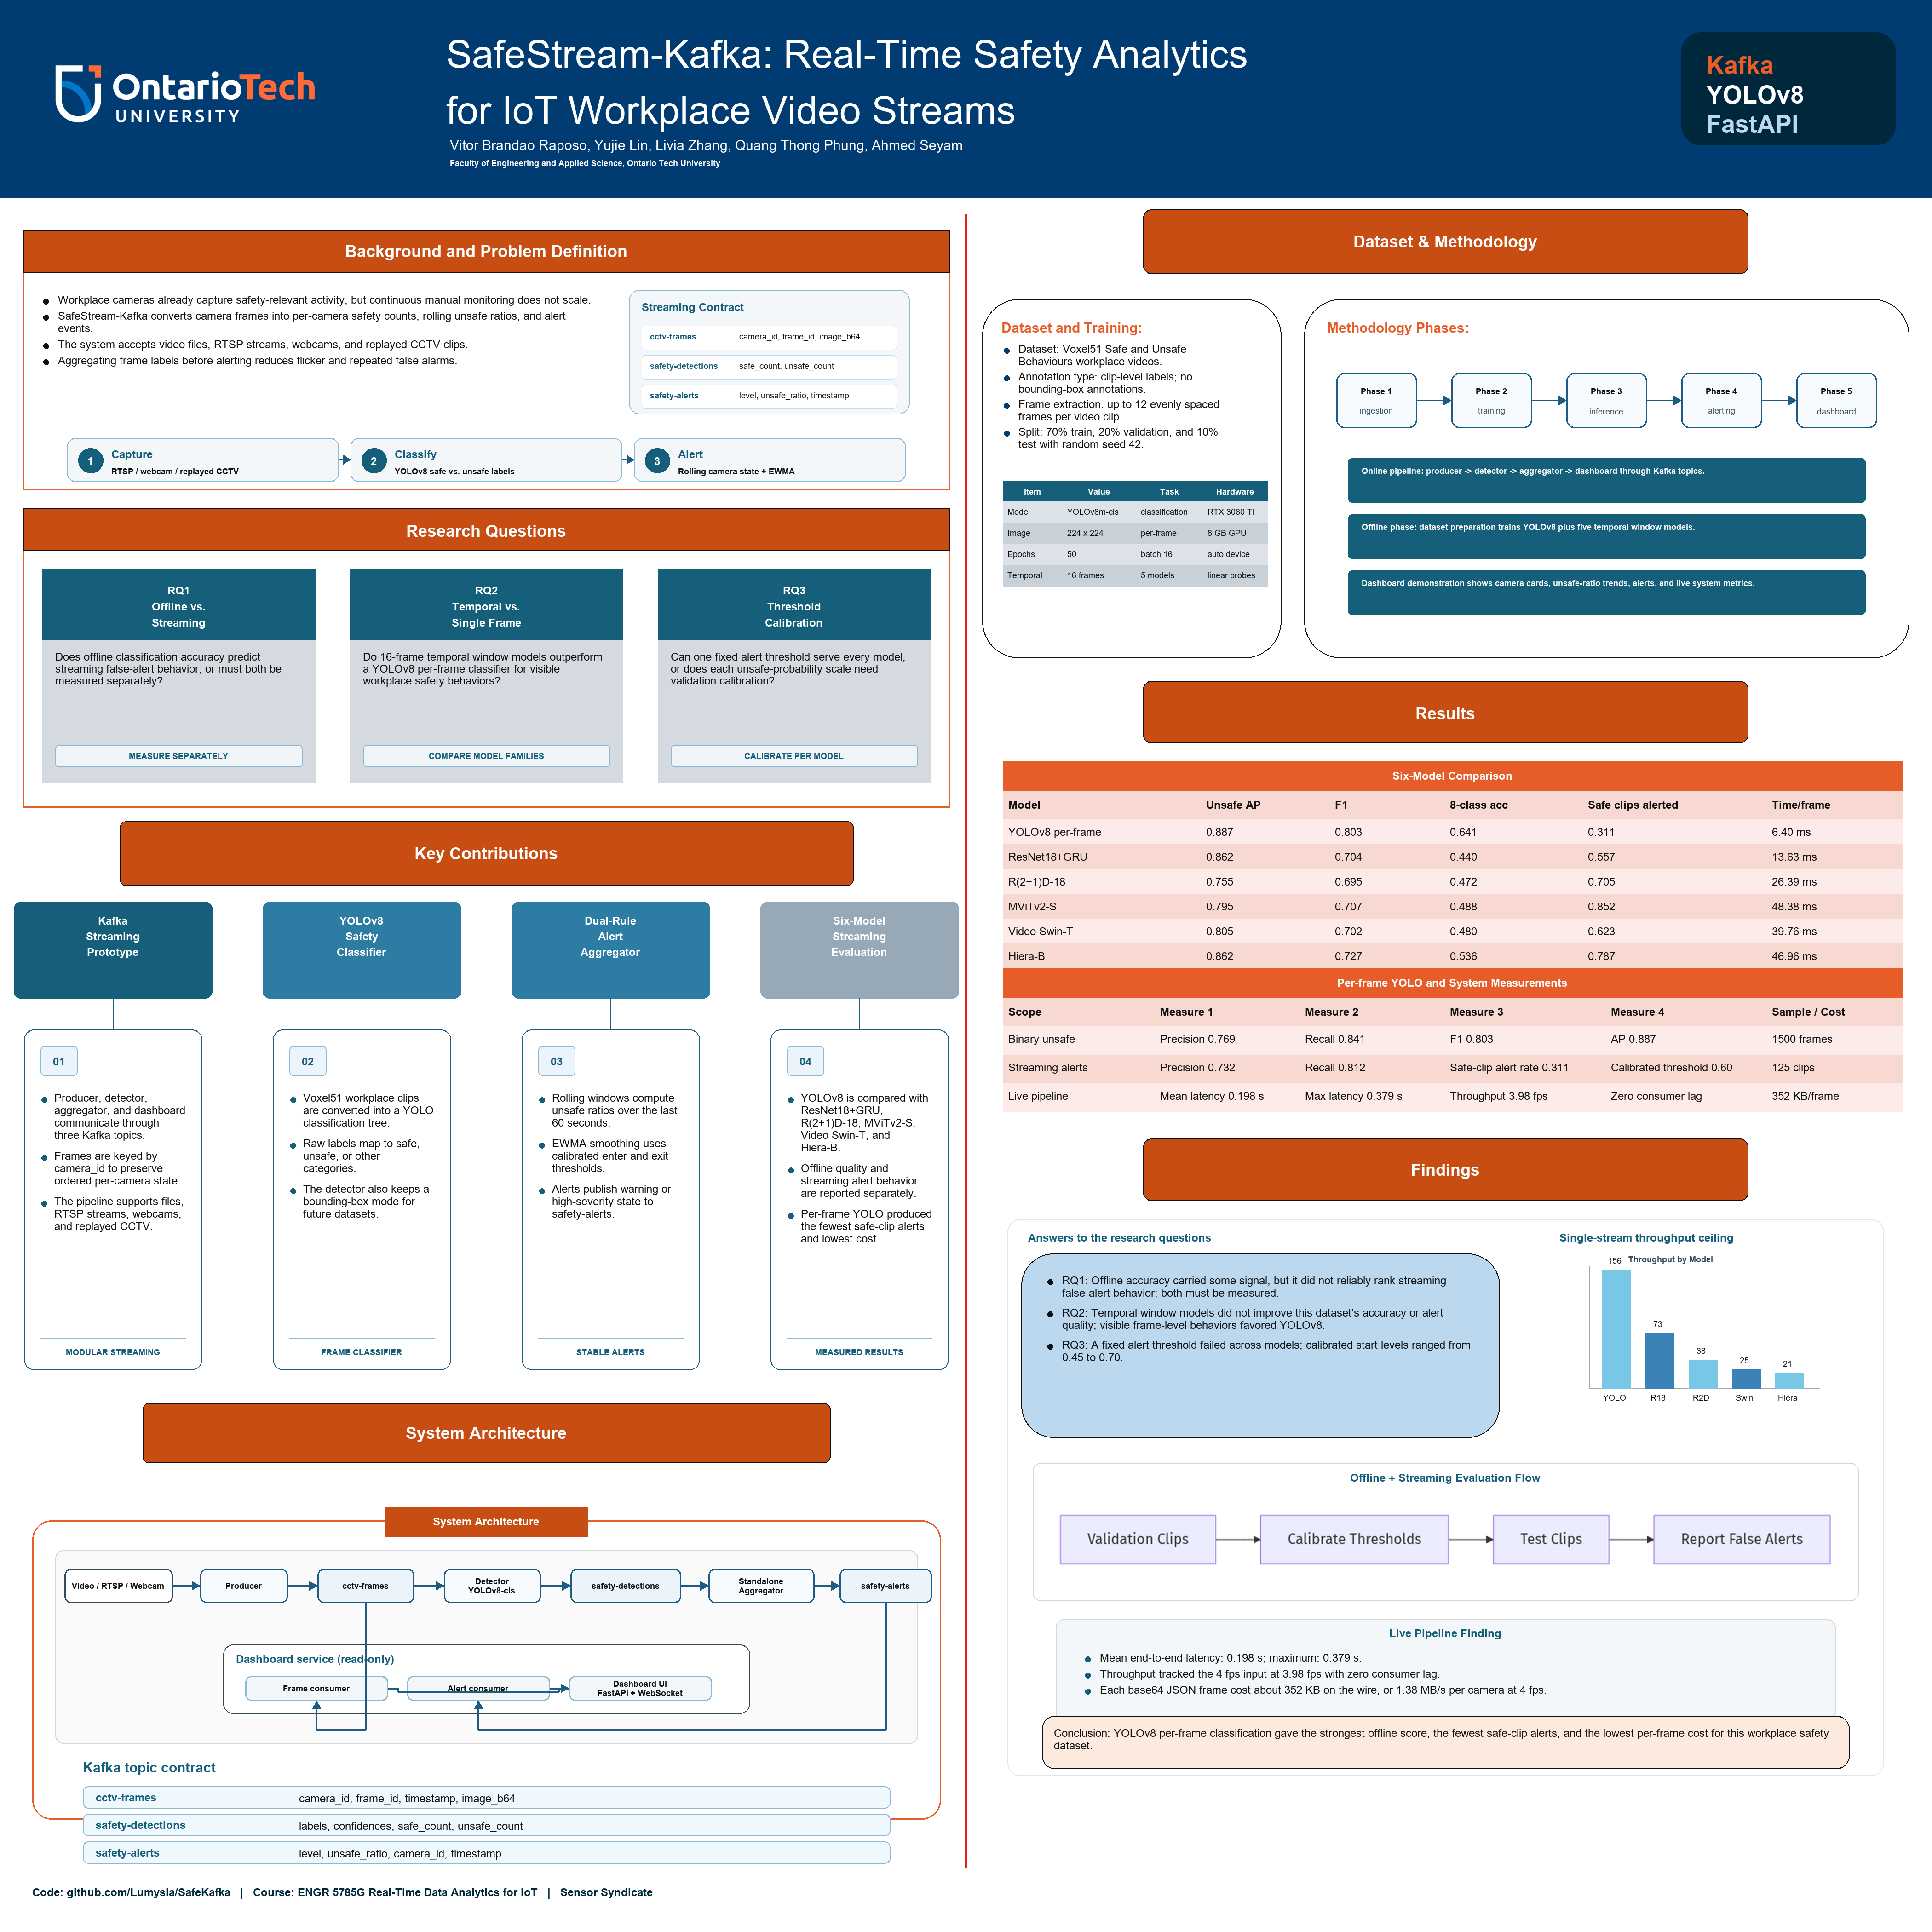
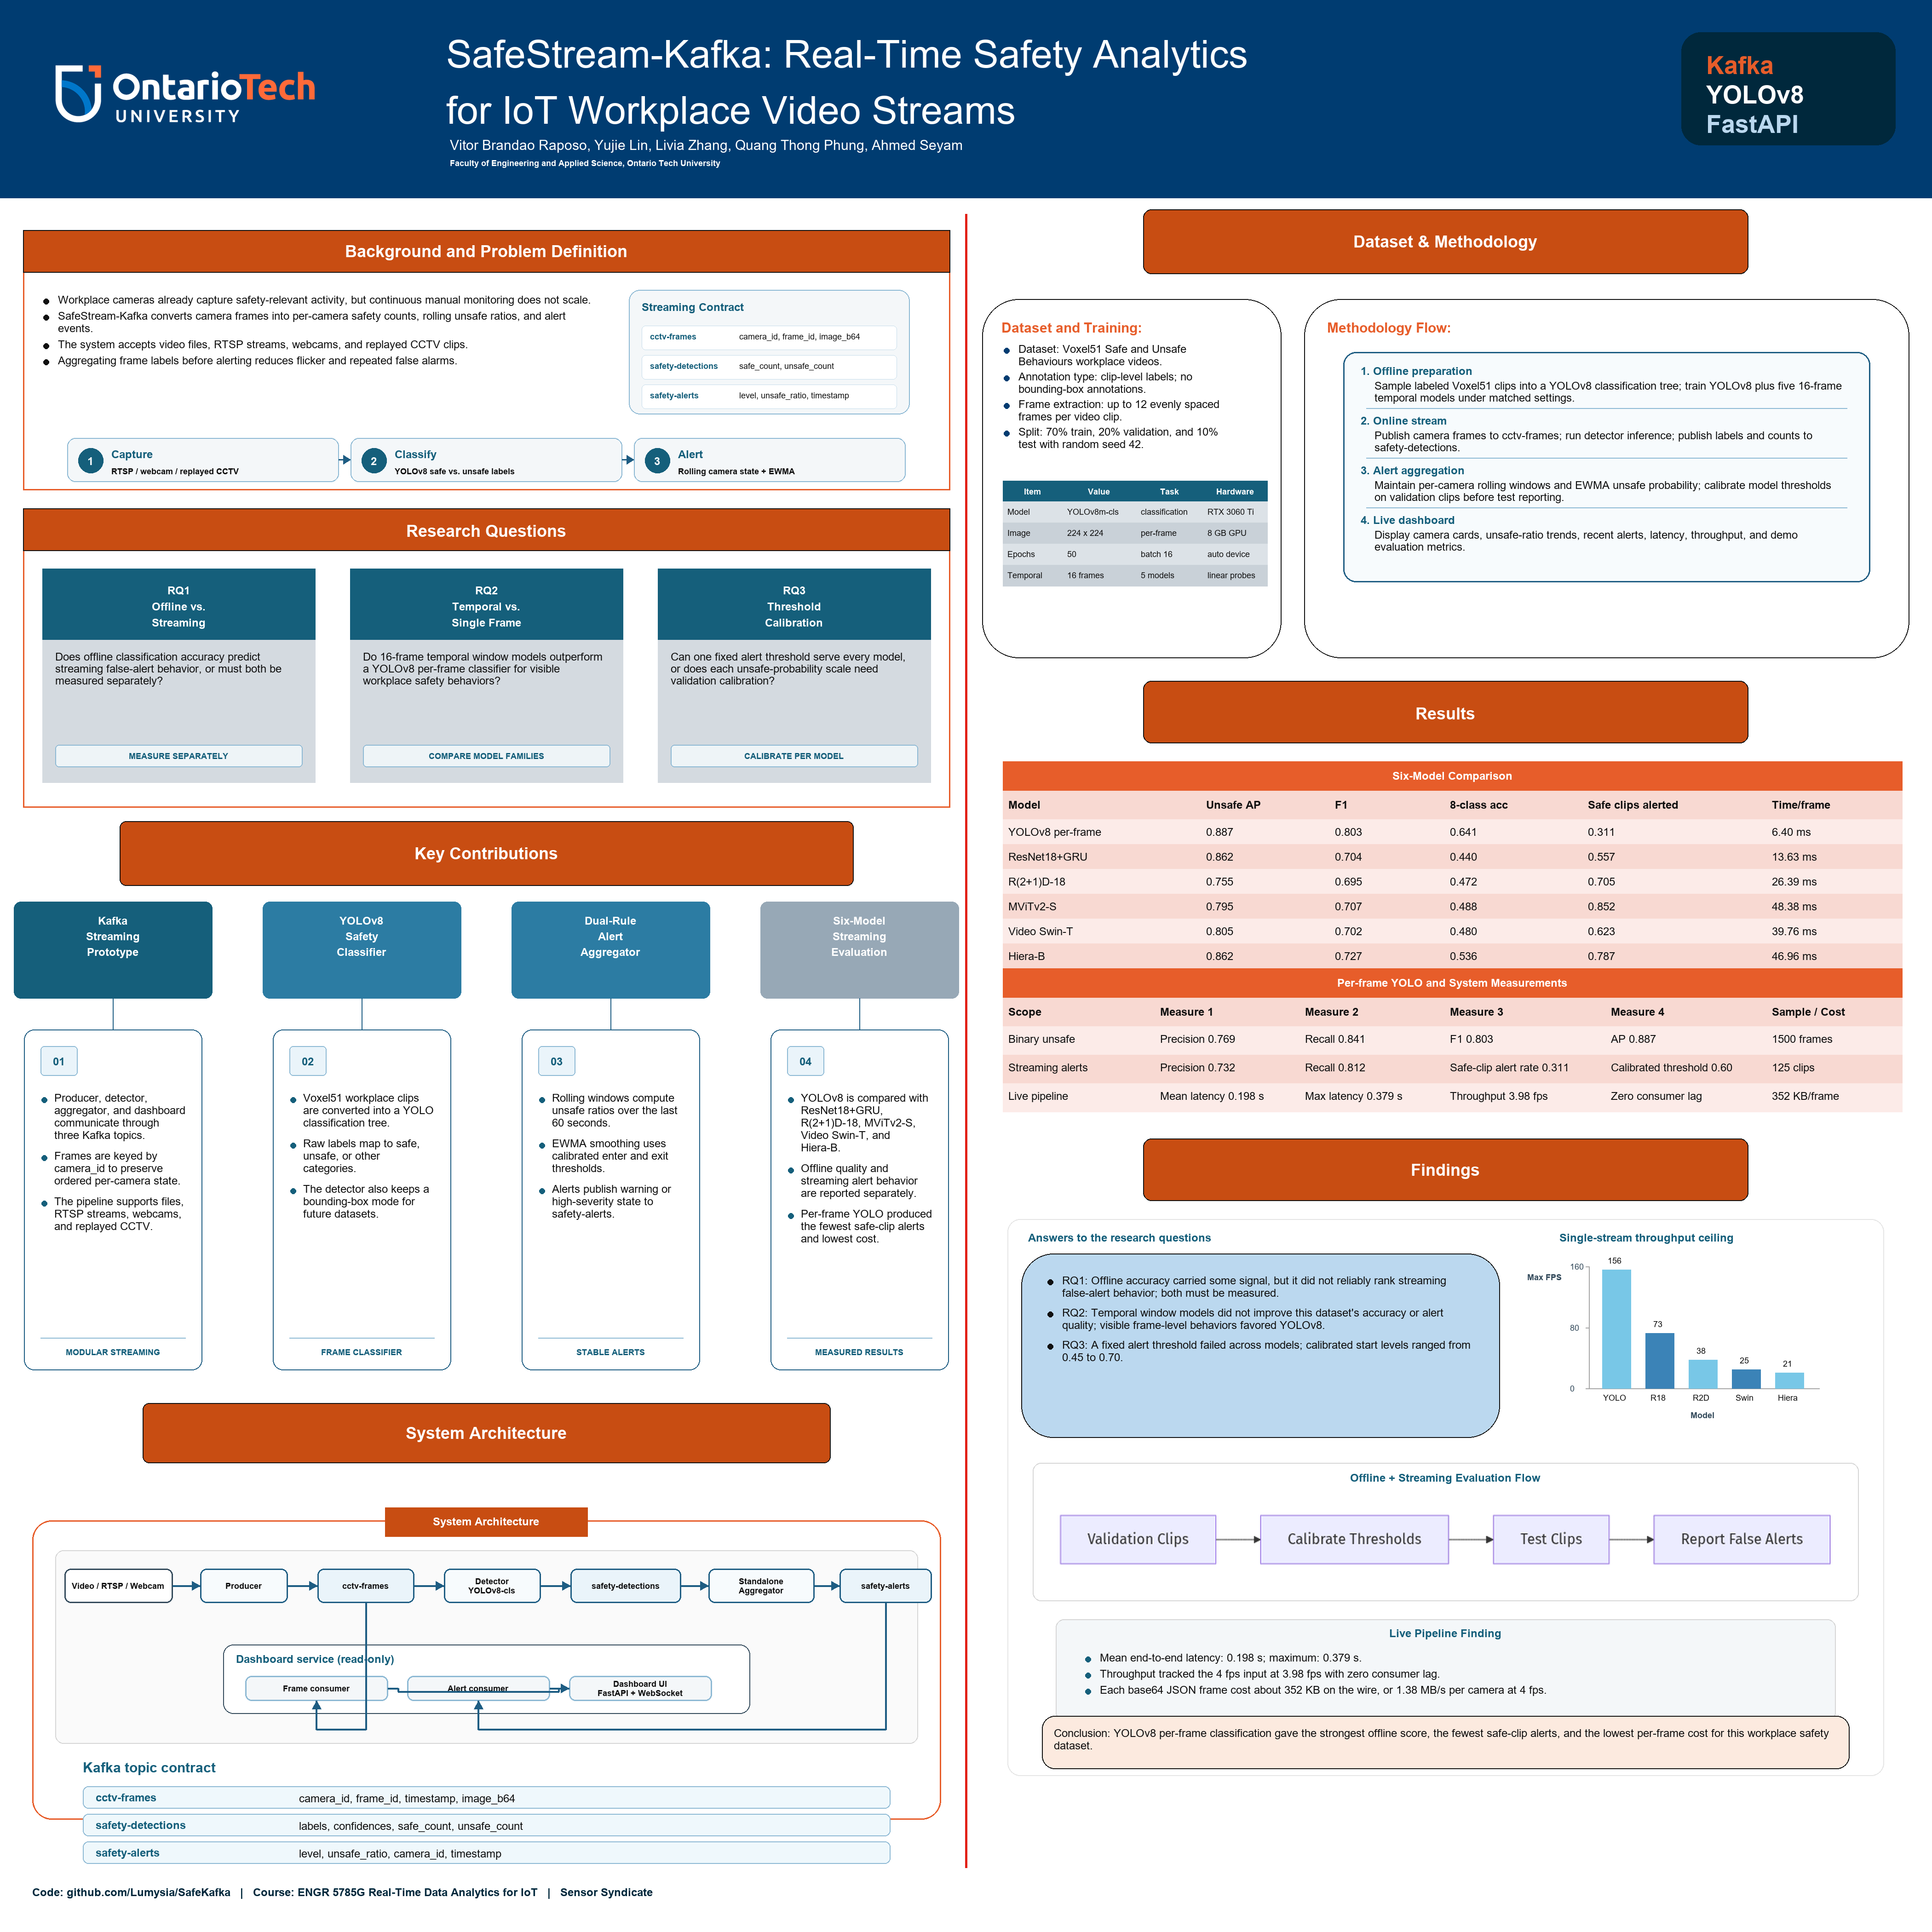
Refine AAIC poster methodology and chart labels

Changed region(s): [[0.6862, 0.1871, 0.9669, 0.3431]]

diff --git a/scripts/generate_aaic_poster.py b/scripts/generate_aaic_poster.py
@@ -505,34 +505,22 @@ def draw_data_collection(draw: ImageDraw.ImageDraw, box: Box) -> None:
             draw.text((x + 10, y + 12), cell, font=FONT_TINY, fill=INK)
             x += width
 
-    draw.text((right.x + 50, right.y + 45), "Methodology Phases:", font=FONT_HEADING, fill=ORANGE_LIGHT)
-    steps = [
-        ("Phase 1", "ingestion"),
-        ("Phase 2", "training"),
-        ("Phase 3", "inference"),
-        ("Phase 4", "alerting"),
-        ("Phase 5", "dashboard"),
+    draw.text((right.x + 50, right.y + 45), "Methodology Flow:", font=FONT_HEADING, fill=ORANGE_LIGHT)
+    flow = Box(right.x + 85, right.y + 115, right.w - 170, 500)
+    draw.rounded_rectangle((flow.x, flow.y, flow.x + flow.w, flow.y + flow.h), radius=28, fill="#F7FBFD", outline=LINE, width=3)
+    flow_items = [
+        ("1. Offline preparation", "Sample labeled Voxel51 clips into a YOLOv8 classification tree; train YOLOv8 plus five 16-frame temporal models under matched settings."),
+        ("2. Online stream", "Publish camera frames to cctv-frames; run detector inference; publish labels and counts to safety-detections."),
+        ("3. Alert aggregation", "Maintain per-camera rolling windows and EWMA unsafe probability; calibrate model thresholds on validation clips before test reporting."),
+        ("4. Live dashboard", "Display camera cards, unsafe-ratio trends, recent alerts, latency, throughput, and demo evaluation metrics."),
     ]
-    start_x = right.x + 70
-    start_y = right.y + 160
-    for index, (name, detail) in enumerate(steps):
-        x = start_x + index * 250
-        draw.rounded_rectangle((x, start_y, x + 175, start_y + 120), radius=18, fill="#F7FBFD", outline=LINE, width=3)
-        draw_centered(draw, Box(x + 15, start_y + 24, 145, 32), name, FONT_TINY_BOLD, INK)
-        draw_centered(draw, Box(x + 15, start_y + 68, 145, 32), detail, FONT_TINY, MUTED)
-        if index < len(steps) - 1:
-            draw.line((x + 175, start_y + 60, x + 250, start_y + 60), fill=LINE, width=3)
-            draw.polygon([(x + 250, start_y + 60), (x + 232, start_y + 49), (x + 232, start_y + 71)], fill=LINE)
-    notes = [
-        "Online pipeline: producer -> detector -> aggregator -> dashboard through Kafka topics.",
-        "Offline phase: dataset preparation trains YOLOv8 plus five temporal window models.",
-        "Dashboard demonstration shows camera cards, unsafe-ratio trends, alerts, and live system metrics.",
-    ]
-    y = right.y + 345
-    for note in notes:
-        draw.rounded_rectangle((right.x + 95, y, right.x + right.w - 95, y + 98), radius=11, fill=TEAL)
-        draw_wrapped(draw, note, (right.x + 125, y + 18), FONT_TINY_BOLD, "white", right.w - 250, 3)
-        y += 122
+    y = flow.y + 28
+    for title, detail in flow_items:
+        draw.text((flow.x + 38, y), title, font=FONT_SMALL_BOLD, fill=TEAL)
+        y = draw_wrapped(draw, detail, (flow.x + 68, y + 32), FONT_SMALL, INK, flow.w - 120, 4)
+        if title != flow_items[-1][0]:
+            draw.line((flow.x + 50, y + 10, flow.x + flow.w - 50, y + 10), fill=LIGHT_LINE, width=2)
+        y += 24
 
 
 def draw_results_table(draw: ImageDraw.ImageDraw, box: Box) -> None:
@@ -594,11 +582,16 @@ def draw_findings(canvas: Image.Image, draw: ImageDraw.ImageDraw, box: Box) -> N
     )
 
     bar = Box(box.x + 1190, box.y + 100, 650, 315)
-    draw.text((bar.x + 170, bar.y - 18), "Throughput by Model", font=FONT_TINY_BOLD, fill=MUTED)
     x0 = bar.x + 85
     y0 = bar.y + bar.h - 42
     draw.line((x0, y0, x0 + 500, y0), fill="#A6A6A6", width=2)
     draw.line((x0, y0, x0, y0 - 265), fill="#A6A6A6", width=2)
+    draw.text((x0 - 135, y0 - 252), "Max FPS", font=FONT_TINY_BOLD, fill=MUTED)
+    draw.text((x0 + 220, y0 + 48), "Model", font=FONT_TINY_BOLD, fill=MUTED)
+    for tick, label in [(0, "0"), (80, "80"), (160, "160")]:
+        ty = y0 - int(265 * tick / 160)
+        draw.line((x0 - 8, ty, x0, ty), fill="#A6A6A6", width=2)
+        draw.text((x0 - 42, ty - 10), label, font=FONT_TINY, fill=MUTED)
     models = [("YOLO", 156, "#78C7E7"), ("R18", 73, "#3B83B7"), ("R2D", 38, "#78C7E7"), ("Swin", 25, "#3B83B7"), ("Hiera", 21, "#78C7E7")]
     for idx, (name, value, color) in enumerate(models):
         bx = x0 + 28 + idx * 94